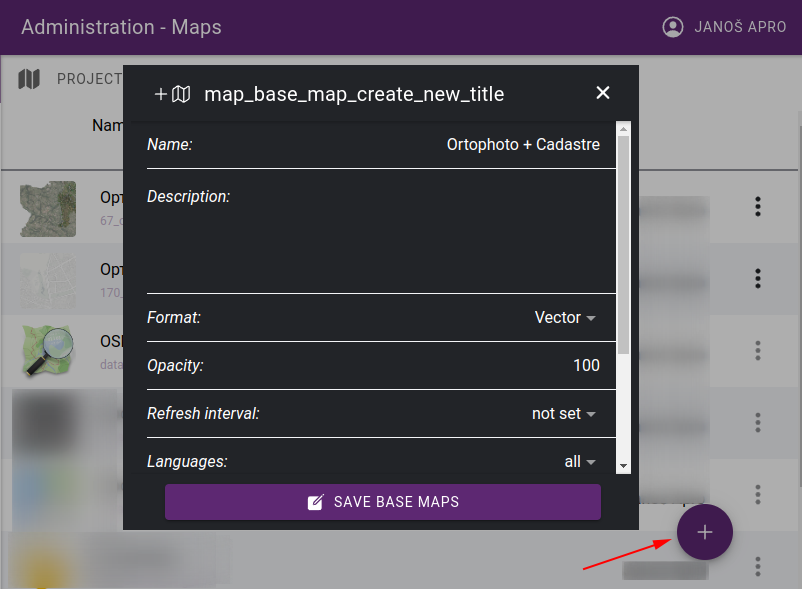
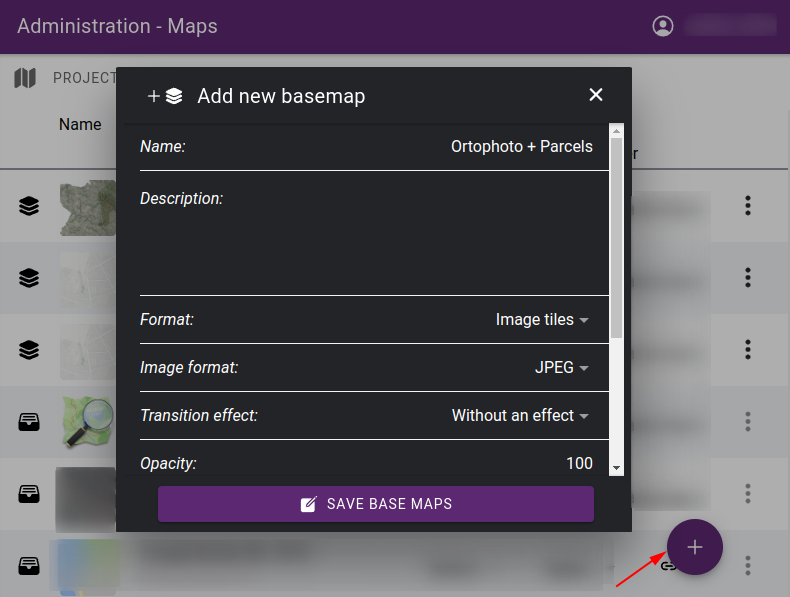
working on basemap section

diff --git a/docs/source/map_basemap.rst b/docs/source/map_basemap.rst
@@ -7,6 +7,13 @@ A basemap is a background map that provides context and reference for the data b
 
 The role of a basemap in a GIS application is to provide a visual representation of the geographic context for the data being analyzed, making it easier to understand the relationships between data and geography. Basemaps can also provide a reference for navigation and help users orient themselves when exploring and analyzing data.
 
+Basemaps are available from Administration > Projects > Basemaps tab:
+
+.. figure:: images/basemap_list.png
+   :align: center
+
+   Basemap list
+
 Adding basemaps
 ---------------
 
@@ -16,16 +23,23 @@ Basemaps can be created from data sources in the following ways:
 
 .. figure:: images/basemap_datasource.png
    :align: center
-   :width: 12cm
+   :width: 15cm
 
    Mark datasource as basemap
 
-* **External datasources treated always as basemaps**
+* **External data sources always treated as basemaps**
 
 .. figure:: images/basemap_external.png
    :align: center
 
    External datasources are listed in base maps section
+
+* **Set existing layer as basemap** - in the map editor, click on … in the layers row to invoke the layer commands and select *set as basemap*:
+
+.. figure:: images/map_layer_setasbasemap.png
+   :align: center
+
+   Set layer as basemap
 
 * **Create a basemap layer from the datasource library**
 
@@ -41,11 +55,62 @@ Click on **+** to add new basemap and use the :ref:`Layer creation <layer_creati
 .. important:: Explain the following topics:
 
 
-Preview picture
----------------
+Preview image
+-------------
+Preview images help you to visually identify basemaps more easily. They are displayed in the basemap selector in the bottom left corner of the map:
 
-Local menu
-----------
+.. figure:: images/basemap_selector.png
+   :align: center
+
+   Preview images in basemap selector
+
+The preview is automatically generated based on the data source(s) that compose the basemap. It is possible to replace the generated image with your own. Simply click on the preview image in the list of basemaps and select the new image:
+
+.. figure:: images/basemap_upload_preview.png
+   :align: center
+
+   Upload preview image
 
 Permissions
 -----------
+
+You can also control the visibility of basemaps. This can be important if you want to hide certain basemaps from the public or restrict them to certain teams.
+
+In the basemap list, set the access rights in the **Visibility** column:
+
+* **Public** - available for everyone
+* **Logged in users** - available from logged in users
+* **Selected user groups** - available to users who are members of one of the selected user groups. If you choose this option, you must select the preferred userg roups in the next column.
+
+.. figure:: images/basemap_visibility.png
+   :align: center
+
+   Basemap permissions
+
+Usage
+-----
+
+It is possible to list where each basemap is in use. This will give you the maps that are listed as basemaps or as layers in the maplegend:
+
+.. figure:: images/basemap_usage.png
+   :align: center
+
+   Usage panel
+
+
+Local menu
+----------
+In basemap listing, click on … at the end of a row to invoke the basemap commands:
+
+* **Edit** - edit basemap in layer editor
+* **Delete** - delete basemap. Note that it will only be removed from the base map list if the same layer is on any map.
+* **Send to...** - send basemap as layer to a map. In the pop-up window, select the map and the folder where the layer will be placed.
+* **Cache** - opens the :ref:`cache manipulation panel<cache_panel>`
+
+.. figure:: images/basemap_commands.png
+   :align: center
+
+   Basemap commands
+
+.. note:: The local menu is only available for layers created in admin, not for data sources marked as basemaps.
+

diff --git a/docs/source/map_create.rst b/docs/source/map_create.rst
@@ -42,6 +42,12 @@ After saving, the map editor window opens, which is divided into two parts: the 
 
     Editing project details
 
+.. figure:: images/basemap_select.png
+    :align: center
+
+    Basemap selection
+
+
 
 Trajectory selection
 --------------------
